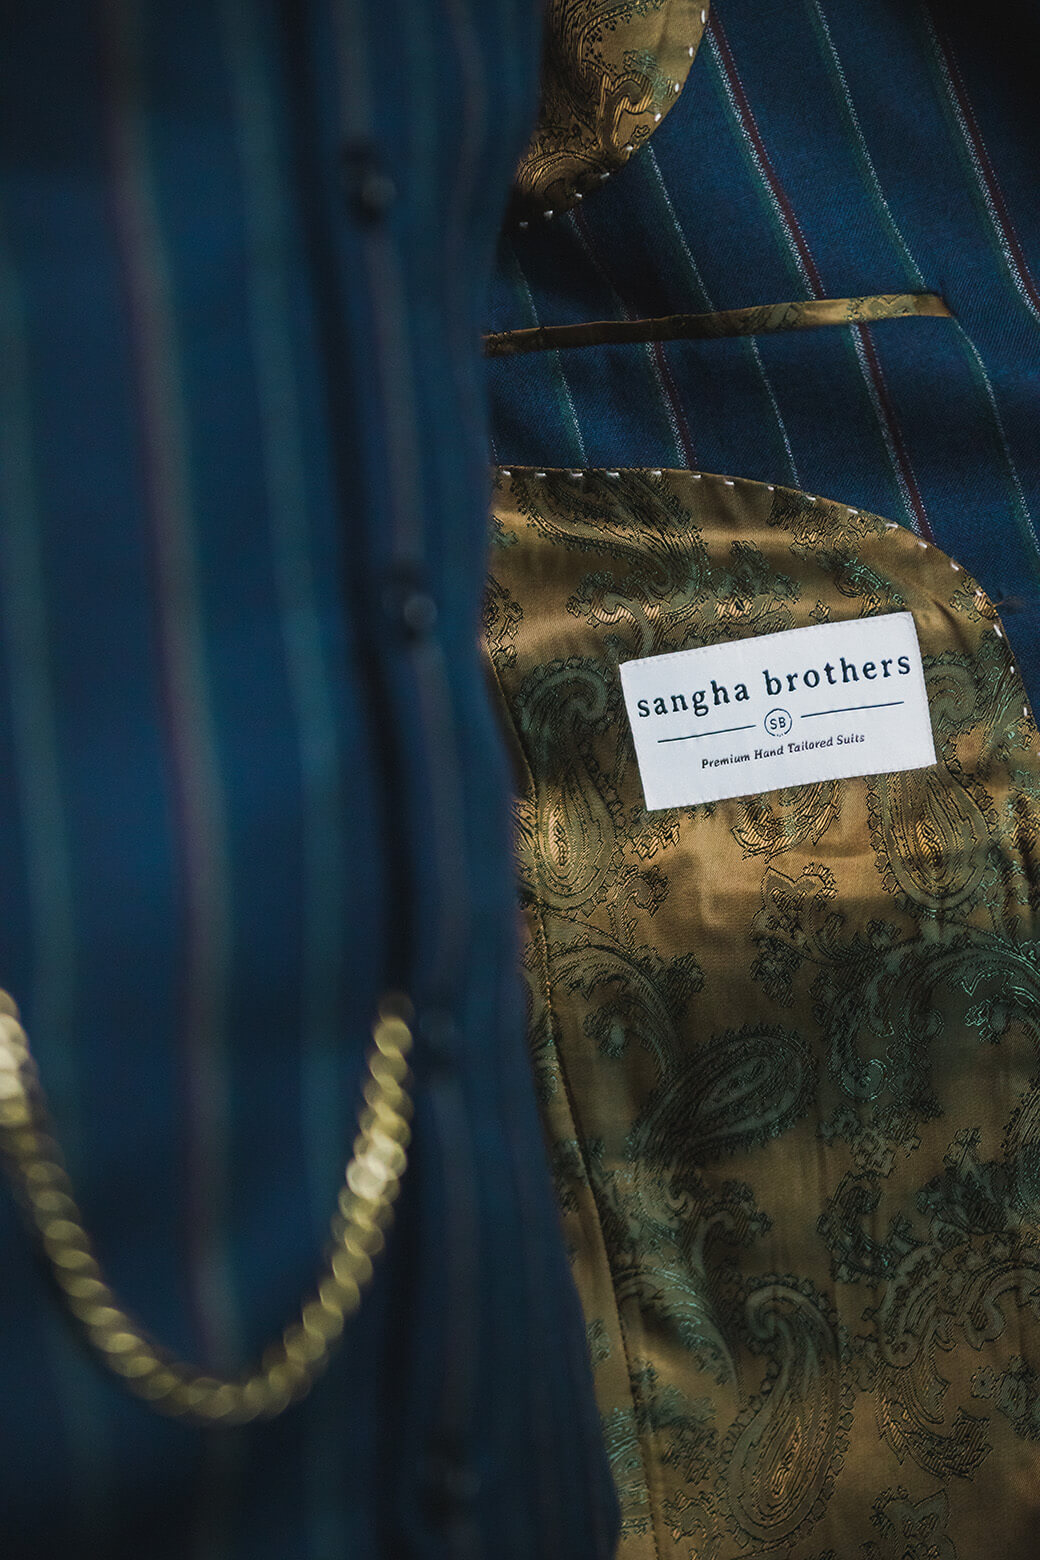
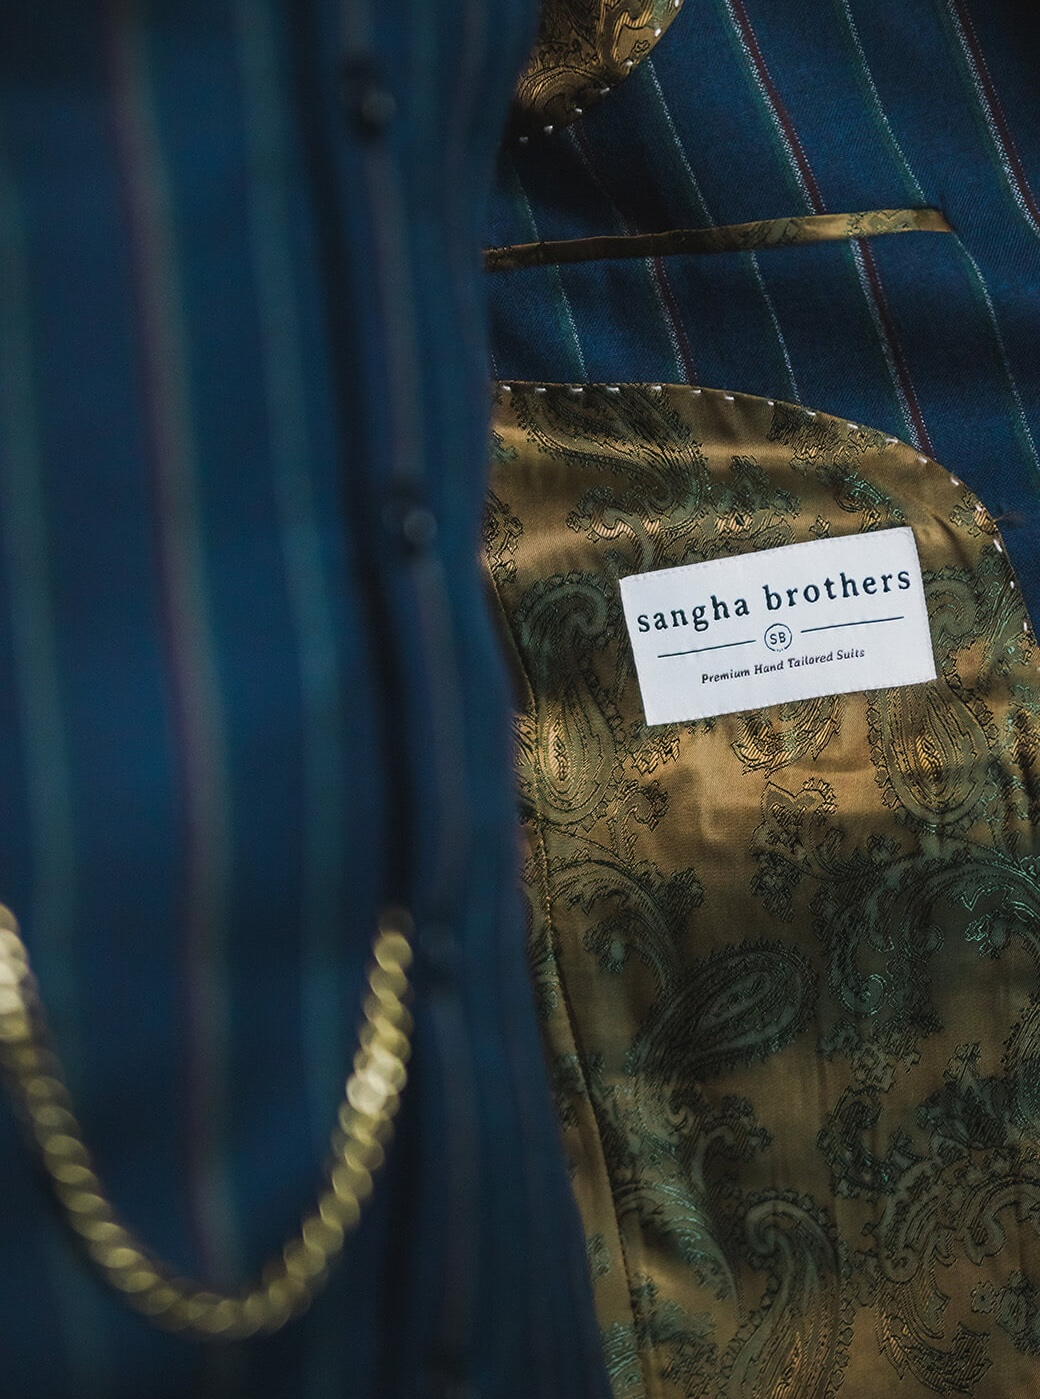
updated about page

diff --git a/about.html b/about.html
@@ -52,9 +52,9 @@
 <div class="about-section">
 
 	<div class="container col-xxl-12 py-2">
-		<div class="row flex-lg-row-reverse align-items-center g-5 py-2">
+		<div class="row flex-lg-row align-items-center g-5 py-2">
 		  <div class="col-12 col-lg-6 mb-3">
-			<img src="./img/suit1.jpg" class="d-block mx-lg-auto img-fluid" alt="Bootstrap Themes" width="700" height="500" loading="lazy">
+			<img src="./img/suit1.jpg" class="d-block mx-lg-auto img-fluid" alt="Bootstrap Themes" width="700" height="500">
 		  </div>
 		  <div class="col-lg-6 mt-0">
             <h2 class="text-center text-body-emphasis lh-1 mb-2">about us</h2>
@@ -65,20 +65,32 @@
 		</div>
 	  </div>
 
-		<h2>our process</h2>
-		<ol>
-			<li>Initial Consultation</li>
-			<p>Every Sangha Brother’s suit journey begins with a personalised consultation. During this meeting, we take the time to understand your unique style, needs, and the occasion for which you require the suit. Our experienced consultants will guide you through the process of hand selecting the perfect fabric and design elements to ensure that your suit is a true reflection of your personality and taste. </p>
-			<li>Time to tailor</li>
-			<p>After the initial consultation, our master tailors begin the meticulous process of crafting your suit. Within 3-4 weeks, your suit will be fully complete with all finishing touches and ready for your final fitting.</p>
-			<li>Final Fitting</li>
-			<p>Your final fitting is a moment of anticipation and excitement. During this fitting, we ensure that every piece of your suit fits perfectly. Minor alterations may be expected. Rest assured, all alterations are made in-house by our skilled tailors.</p>
-			<p>Your final suit will be ready for collection within the following week. Our standard timeline from start to finish is 4-5 weeks, but we also offer an expedited service for those who need their suit sooner, with a turnaround time of just 3 weeks.</p>
-			<li>Ongoing Care</li>
-			<p>At Sangha Brother’s, our commitment to you doesn't end with the completion of your suit. We offer ongoing care and maintenance services to ensure that your suit remains in pristine condition for years to come. Whether you need minor repairs, alterations, or just some advice on how to care for your suit, our team is here to help.</p>
-		</ol>
-	<h2>price</h2>
-	<p>we believe in offering top-notch quality at a great value, with suits starting at just $849.99 for a two piece. shirts starting at just $89.00 </p>
+	  <div class="container col-xxl-12 py-2">
+		<div class="row flex-lg-row-reverse align-items-center g-5 py-2">
+		  <div class="col-12 col-lg-6 mb-3">
+			<img src="./img/suit2.jpg" class="d-block mx-auto mb-3" alt="Bootstrap Themes"  width="70%">
+			<img src="./img/suit4.jpg" class="d-block mx-auto mb-3" alt="Bootstrap Themes"  width="70%">
+			<img src="./img/suit3.jpg" class="d-block mx-auto" alt="Bootstrap Themes"  width="70%">
+		  </div>
+		  <div class="col-lg-6 mt-0">
+            <h2 class="text-center text-body-emphasis lh-1 mb-5 mt-5">our process</h2>
+			<ol>
+				<li>Initial Consultation</li>
+				<p class="lead">Every Sangha Brother’s suit journey begins with a personalised consultation. During this meeting, we take the time to understand your unique style, needs, and the occasion for which you require the suit. Our experienced consultants will guide you through the process of hand selecting the perfect fabric and design elements to ensure that your suit is a true reflection of your personality and taste. </p>
+				<li>Time to tailor</li>
+				<p class="lead">After the initial consultation, our master tailors begin the meticulous process of crafting your suit. Within 3-4 weeks, your suit will be fully complete with all finishing touches and ready for your final fitting.</p>
+				<li>Final Fitting</li>
+				<p class="lead">Your final fitting is a moment of anticipation and excitement. During this fitting, we ensure that every piece of your suit fits perfectly. Minor alterations may be expected. Rest assured, all alterations are made in-house by our skilled tailors.</p>
+				<p class="lead">Your final suit will be ready for collection within the following week. Our standard timeline from start to finish is 4-5 weeks, but we also offer an expedited service for those who need their suit sooner, with a turnaround time of just 3 weeks.</p>
+				<li>Ongoing Care</li>
+				<p class="lead">At Sangha Brother’s, our commitment to you doesn't end with the completion of your suit. We offer ongoing care and maintenance services to ensure that your suit remains in pristine condition for years to come. Whether you need minor repairs, alterations, or just some advice on how to care for your suit, our team is here to help.</p>
+			</ol>
+		  </div>
+		</div>
+	  </div>
+
+	<h2 class="text-body-emphasis lh-1 mb-1 mt-3">price</h2>
+	<p class="lead">we believe in offering top-notch quality at a great value, with suits starting at just $849.99 for a two piece. shirts starting at just $89.00 </p>
 
 	
 </div>

diff --git a/lookbook.html b/lookbook.html
@@ -62,7 +62,7 @@
   <img src="./img/lookbook/Shoot-142.jpg" data-target="#indicators" data-slide-to="0" alt="" /> 
     </div>
     <div class="col-12 col-md-4 col-lg-2">
-         <img src="./img/lookbook/Shoot-72.jpg" data-target="#indicators" data-slide-to="1" alt="" />
+         <img src="https://source.unsplash.com/random/204" data-target="#indicators" data-slide-to="1" alt="" />
     </div>
     <div class="col-12 col-md-4 col-lg-2">
        <img src="img/lookbook/Shoot-147.jpg" data-target="#indicators" data-slide-to="2"  alt="" />
@@ -71,7 +71,7 @@
          <img src="./img/lookbook/Shoot-362.jpg" data-target="#indicators" data-slide-to="3" alt="" />
     </div>
     <div class="col-12 col-md-4 col-lg-2">
-         <img src="https://source.unsplash.com/random/204" data-target="#indicators" data-slide-to="4"  alt="" />
+         <img src="./img/lookbook/Shoot-72.jpg" data-target="#indicators" data-slide-to="4"  alt="" />
     </div>
     <div class="col-12 col-md-4 col-lg-2">
          <img src="https://source.unsplash.com/random/205" data-target="#indicators" data-slide-to="5" alt="" />
@@ -91,7 +91,7 @@
             <img class="d-block w-100" src="./img/lookbook/Shoot-142.jpg" alt="First slide">
           </div>
           <div class="carousel-item">
-            <img class="d-block w-100" src="./img/lookbook/Shoot-72.jpg" alt="Second slide">
+            <img class="d-block w-100" src="https://source.unsplash.com/random/204" alt="Second slide">
           </div>
           <div class="carousel-item">
             <img class="d-block w-100" src="img/lookbook/Shoot-147.jpg" alt="Third slide">
@@ -100,7 +100,7 @@
             <img class="d-block w-100" src="./img/lookbook/Shoot-362.jpg" alt="Fourth slide">
           </div>
           <div class="carousel-item">
-            <img class="d-block w-100" src="https://source.unsplash.com/random/204" alt="Fifth slide">
+            <img class="d-block w-100" src="./img/lookbook/Shoot-72.jpg" alt="Fifth slide">
           </div>
           <div class="carousel-item">
             <img class="d-block w-100" src="https://source.unsplash.com/random/205" alt="Sixth slide">

diff --git a/css/style.css b/css/style.css
@@ -12,6 +12,18 @@ ol li{
   font-weight: bold;
 }
 
+h1 {
+  letter-spacing: 3px;
+}
+
+h2{
+  letter-spacing: 3px;
+}
+
+h3{
+  letter-spacing: 3px;
+}
+
 #navbar {
   background-color: white; 
   color: black;
